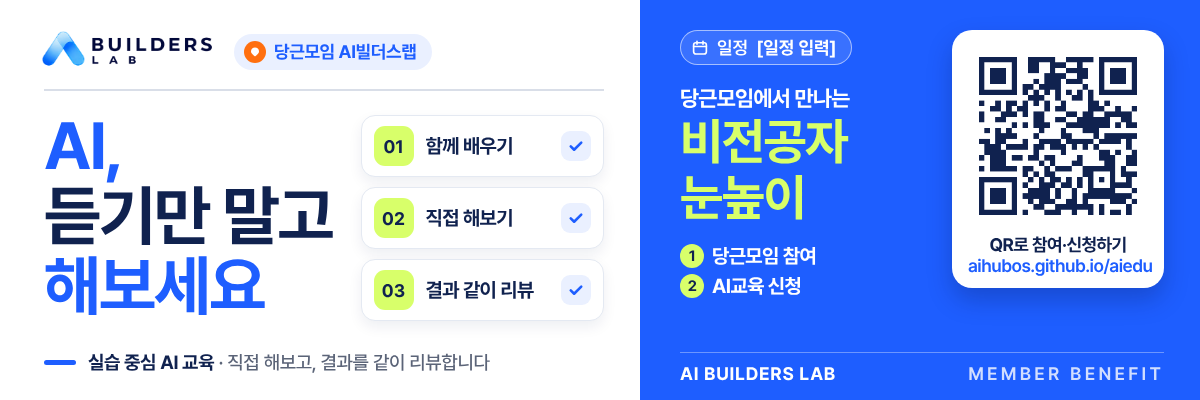
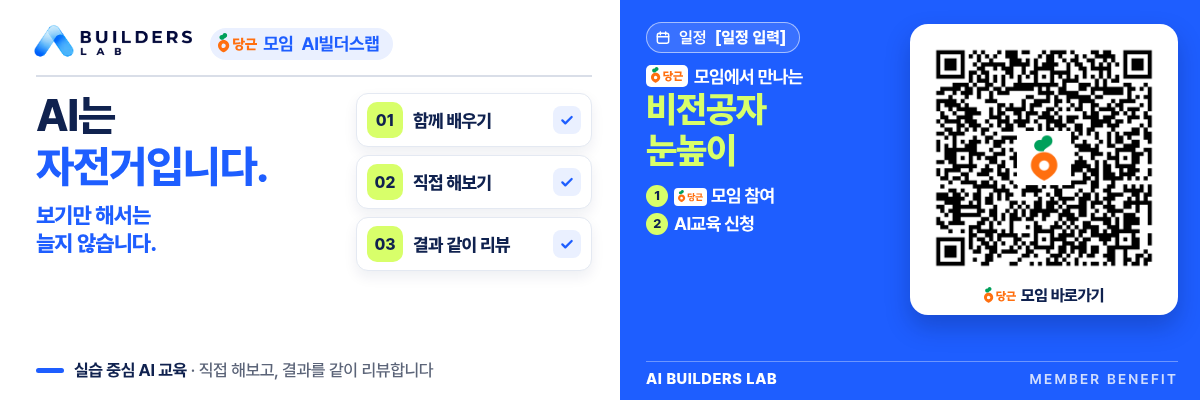
시안 C를 최종으로 확정하고 당근모임 QR·카피를 반영합니다.
세로 상·하단과 가로에 당근모임 QR을 넣고, 'AI는 자전거입니다' 카피와 공식 당근 로고를 적용했습니다.

diff --git a/banner/index.html b/banner/index.html
@@ -55,6 +55,8 @@
   .card-head{padding:18px 18px 0}
   .card-head .label{display:inline-flex;align-items:center;gap:8px;font-size:13px;font-weight:700;color:var(--blue)}
   .card-head .label .ab{display:inline-grid;place-items:center;width:26px;height:26px;border-radius:8px;background:var(--navy);color:var(--lime);font-weight:800;font-size:14px}
+  .final{display:inline-block;margin-left:6px;background:var(--lime);color:var(--navy);font-style:normal;font-size:12px;font-weight:800;padding:3px 8px;border-radius:999px;vertical-align:middle;letter-spacing:-0.02em}
+  .card-final{border-color:var(--blue);box-shadow:0 0 0 2px rgba(30,94,255,.18)}
   .card-head h2{margin-top:8px;font-size:20px;font-weight:800;letter-spacing:-0.02em}
   .card-head p{margin-top:4px;font-size:14px;color:var(--gray)}
   .previews{padding:16px 18px 0;display:grid;gap:12px}
@@ -111,16 +113,16 @@
 <header class="topbar">
   <div class="wrap">
     <img src="../logo.png" alt="AI빌더스랩">
-    <div class="title"><b>AI빌더스랩</b> · 당근모임 참여 &amp; AI교육 신청 배너 시안(초안)</div>
+    <div class="title"><b>AI빌더스랩</b> · 당근모임 참여 &amp; AI교육 신청 배너 · 시안 C 최종</div>
     <a class="link-btn" href="../">랜딩 보기 →</a>
   </div>
 </header>
 
 <main class="wrap">
   <section class="intro">
-    <span class="badge">배너 시안 · 초안</span>
+    <span class="badge">시안 C 최종</span>
     <h1>배너 시안 <em>미리보기 &amp; 다운로드</em></h1>
-    <div class="notice"><span class="tag">안내</span><span>초안입니다. 일정·수강료·인원·장소·링크는 확정 후 반영됩니다.</span></div>
+    <div class="notice"><span class="tag">최종</span><span>시안 C를 최종으로 확정했어요. 일정·수강료·인원·장소는 확정 후 반영됩니다.</span></div>
   </section>
 
   <section class="grid" aria-label="배너 시안">
@@ -173,11 +175,11 @@
     </article>
 
     <!-- C -->
-    <article class="card">
+    <article class="card card-final">
       <div class="card-head">
-        <span class="label"><span class="ab">C</span>시안 C</span>
+        <span class="label"><span class="ab">C</span>시안 C <em class="final">최종</em></span>
         <h2>프로세스 강조형</h2>
-        <p>‘AI, 듣기만 말고 해보세요’ · 진행 3단계 + [일정 입력] 칩</p>
+        <p>‘AI는 자전거입니다’ · 보기만 해서는 늘지 않습니다 · 당근모임 QR</p>
       </div>
       <div class="previews">
         <div>
@@ -200,11 +202,19 @@
   <section class="section" aria-labelledby="qr-title">
     <h2 class="sec" id="qr-title">QR 코드</h2>
     <div class="qr-box">
+      <div class="qr-img"><img src="files/daangn-qr.png" alt="당근모임 바로가기 QR 코드"></div>
+      <div class="qr-info">
+        <div class="k">시안 C 배너에 사용한 당근모임 QR</div>
+        <span class="url">https://daangn.com/kr/share/community/ref/invite-group/baRr2nojJVT?utm_campaign=share_qr_image</span>
+        <a class="btn btn-primary" href="files/daangn-qr.png" download><svg viewBox="0 0 24 24" fill="none" stroke="currentColor" stroke-width="2.2" stroke-linecap="round" stroke-linejoin="round"><path d="M12 4v11m0 0l-4.5-4.5M12 15l4.5-4.5M5 20h14"/></svg>당근모임 QR PNG 다운로드</a>
+      </div>
+    </div>
+    <div class="qr-box" style="margin-top:16px">
       <div class="qr-img"><img src="files/aiedu-qr.png" alt="랜딩 페이지 QR 코드"></div>
       <div class="qr-info">
-        <div class="k">연결 URL</div>
+        <div class="k">랜딩 페이지 QR (배너 외 사용)</div>
         <span class="url">https://aihubos.github.io/aiedu/</span>
-        <a class="btn btn-primary" href="files/aiedu-qr.png" download><svg viewBox="0 0 24 24" fill="none" stroke="currentColor" stroke-width="2.2" stroke-linecap="round" stroke-linejoin="round"><path d="M12 4v11m0 0l-4.5-4.5M12 15l4.5-4.5M5 20h14"/></svg>QR PNG 다운로드</a>
+        <a class="btn btn-primary" href="files/aiedu-qr.png" download><svg viewBox="0 0 24 24" fill="none" stroke="currentColor" stroke-width="2.2" stroke-linecap="round" stroke-linejoin="round"><path d="M12 4v11m0 0l-4.5-4.5M12 15l4.5-4.5M5 20h14"/></svg>랜딩 QR PNG 다운로드</a>
       </div>
     </div>
   </section>
@@ -219,7 +229,7 @@
 </main>
 
 <footer>
-  <div class="wrap">© AI빌더스랩 · 배너 시안(초안)</div>
+  <div class="wrap">© AI빌더스랩 · 시안 C 최종</div>
 </footer>
 
 </body>
